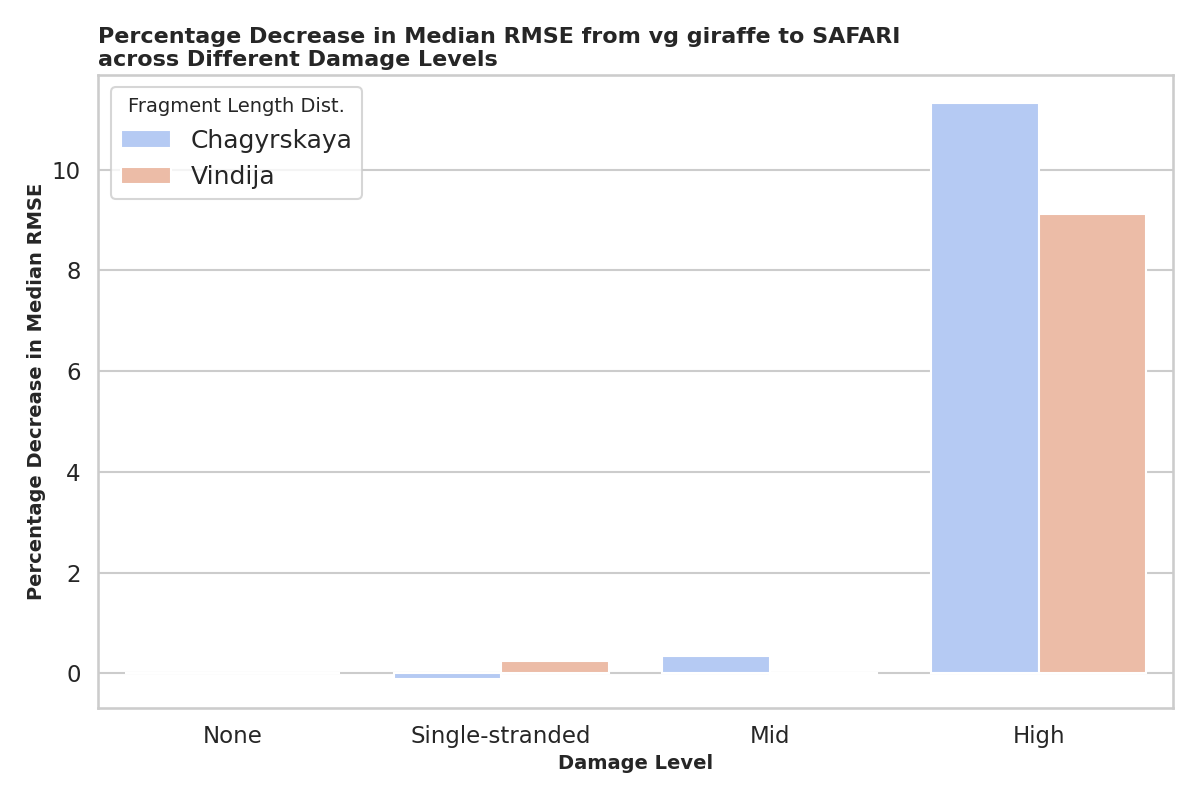
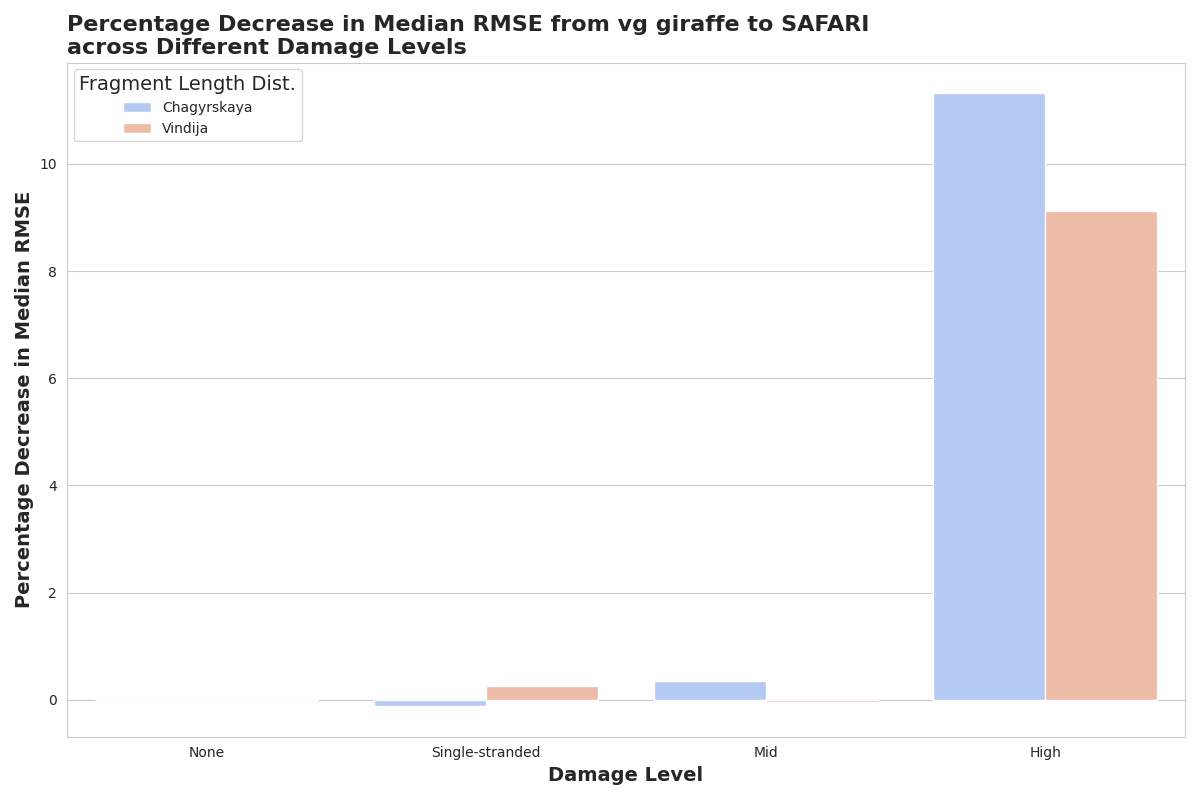
Update

diff --git a/linear_experiment/human_mito/stat_results/plot_RMSE.py b/linear_experiment/human_mito/stat_results/plot_RMSE.py
@@ -36,7 +36,7 @@ def generate_percentage_decrease_plots(input_file_path):
 
     # Set the aesthetic style of the plots, including making the text larger and bolder
     sns.set_style("whitegrid")
-    sns.set_context("talk", font_scale=1)
+    #sns.set_context("talk", font_scale=1)
 
     print(melted_data)
 
